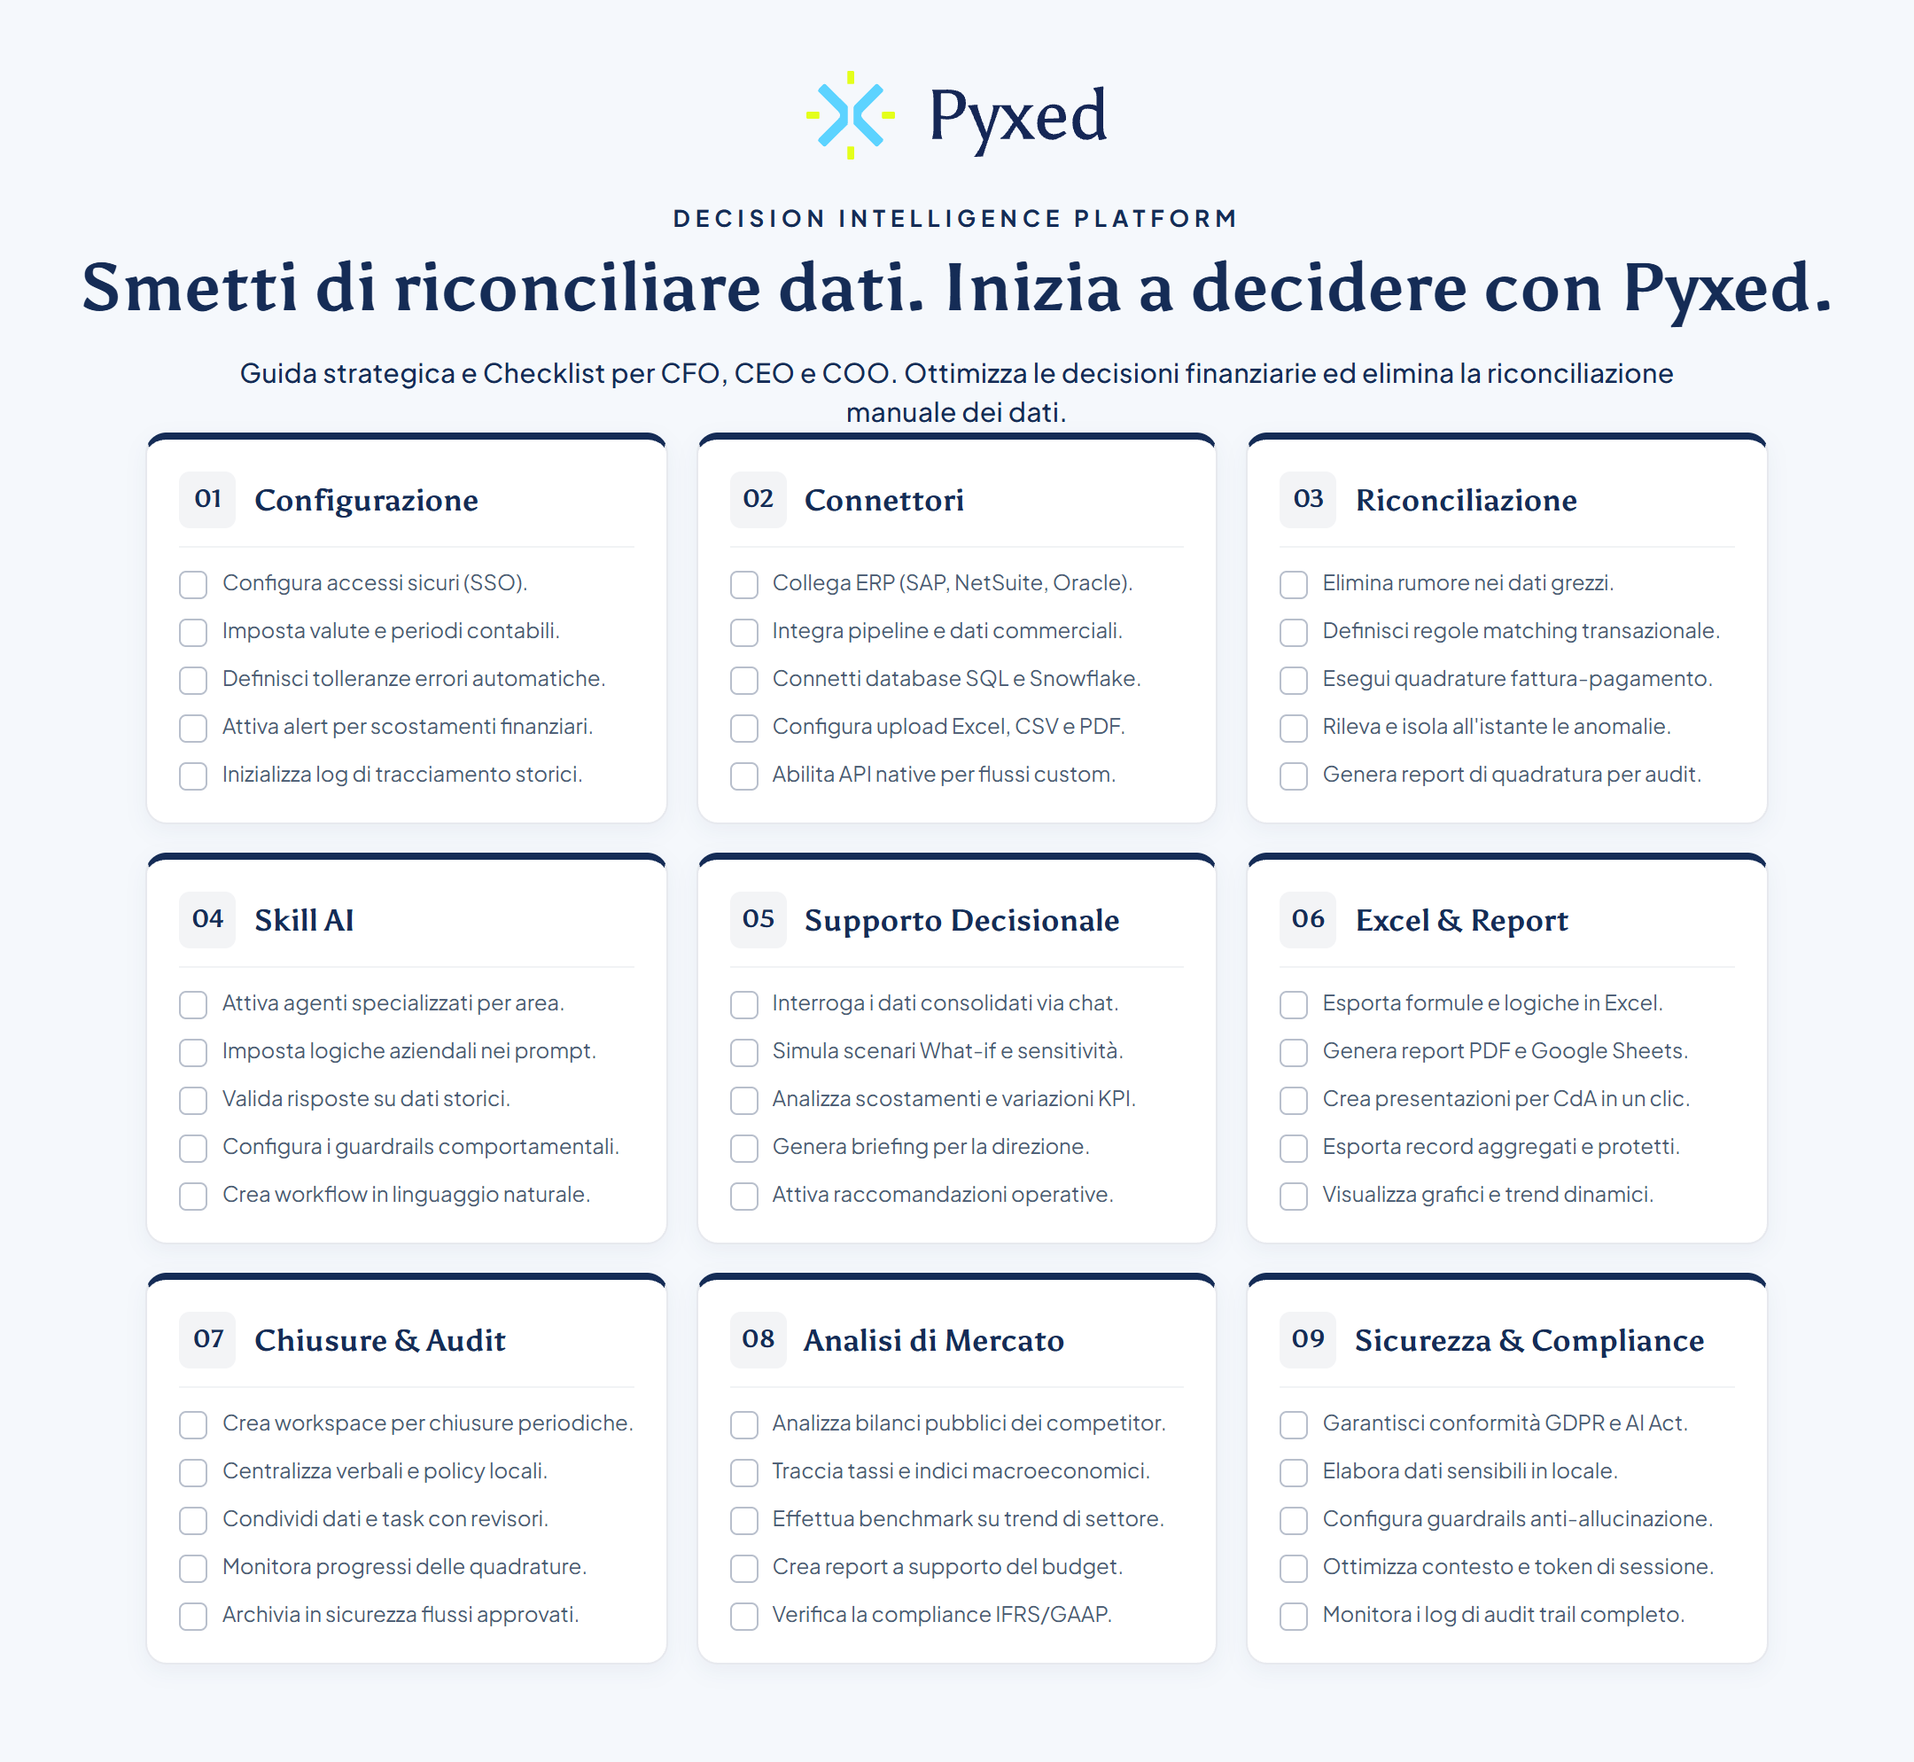
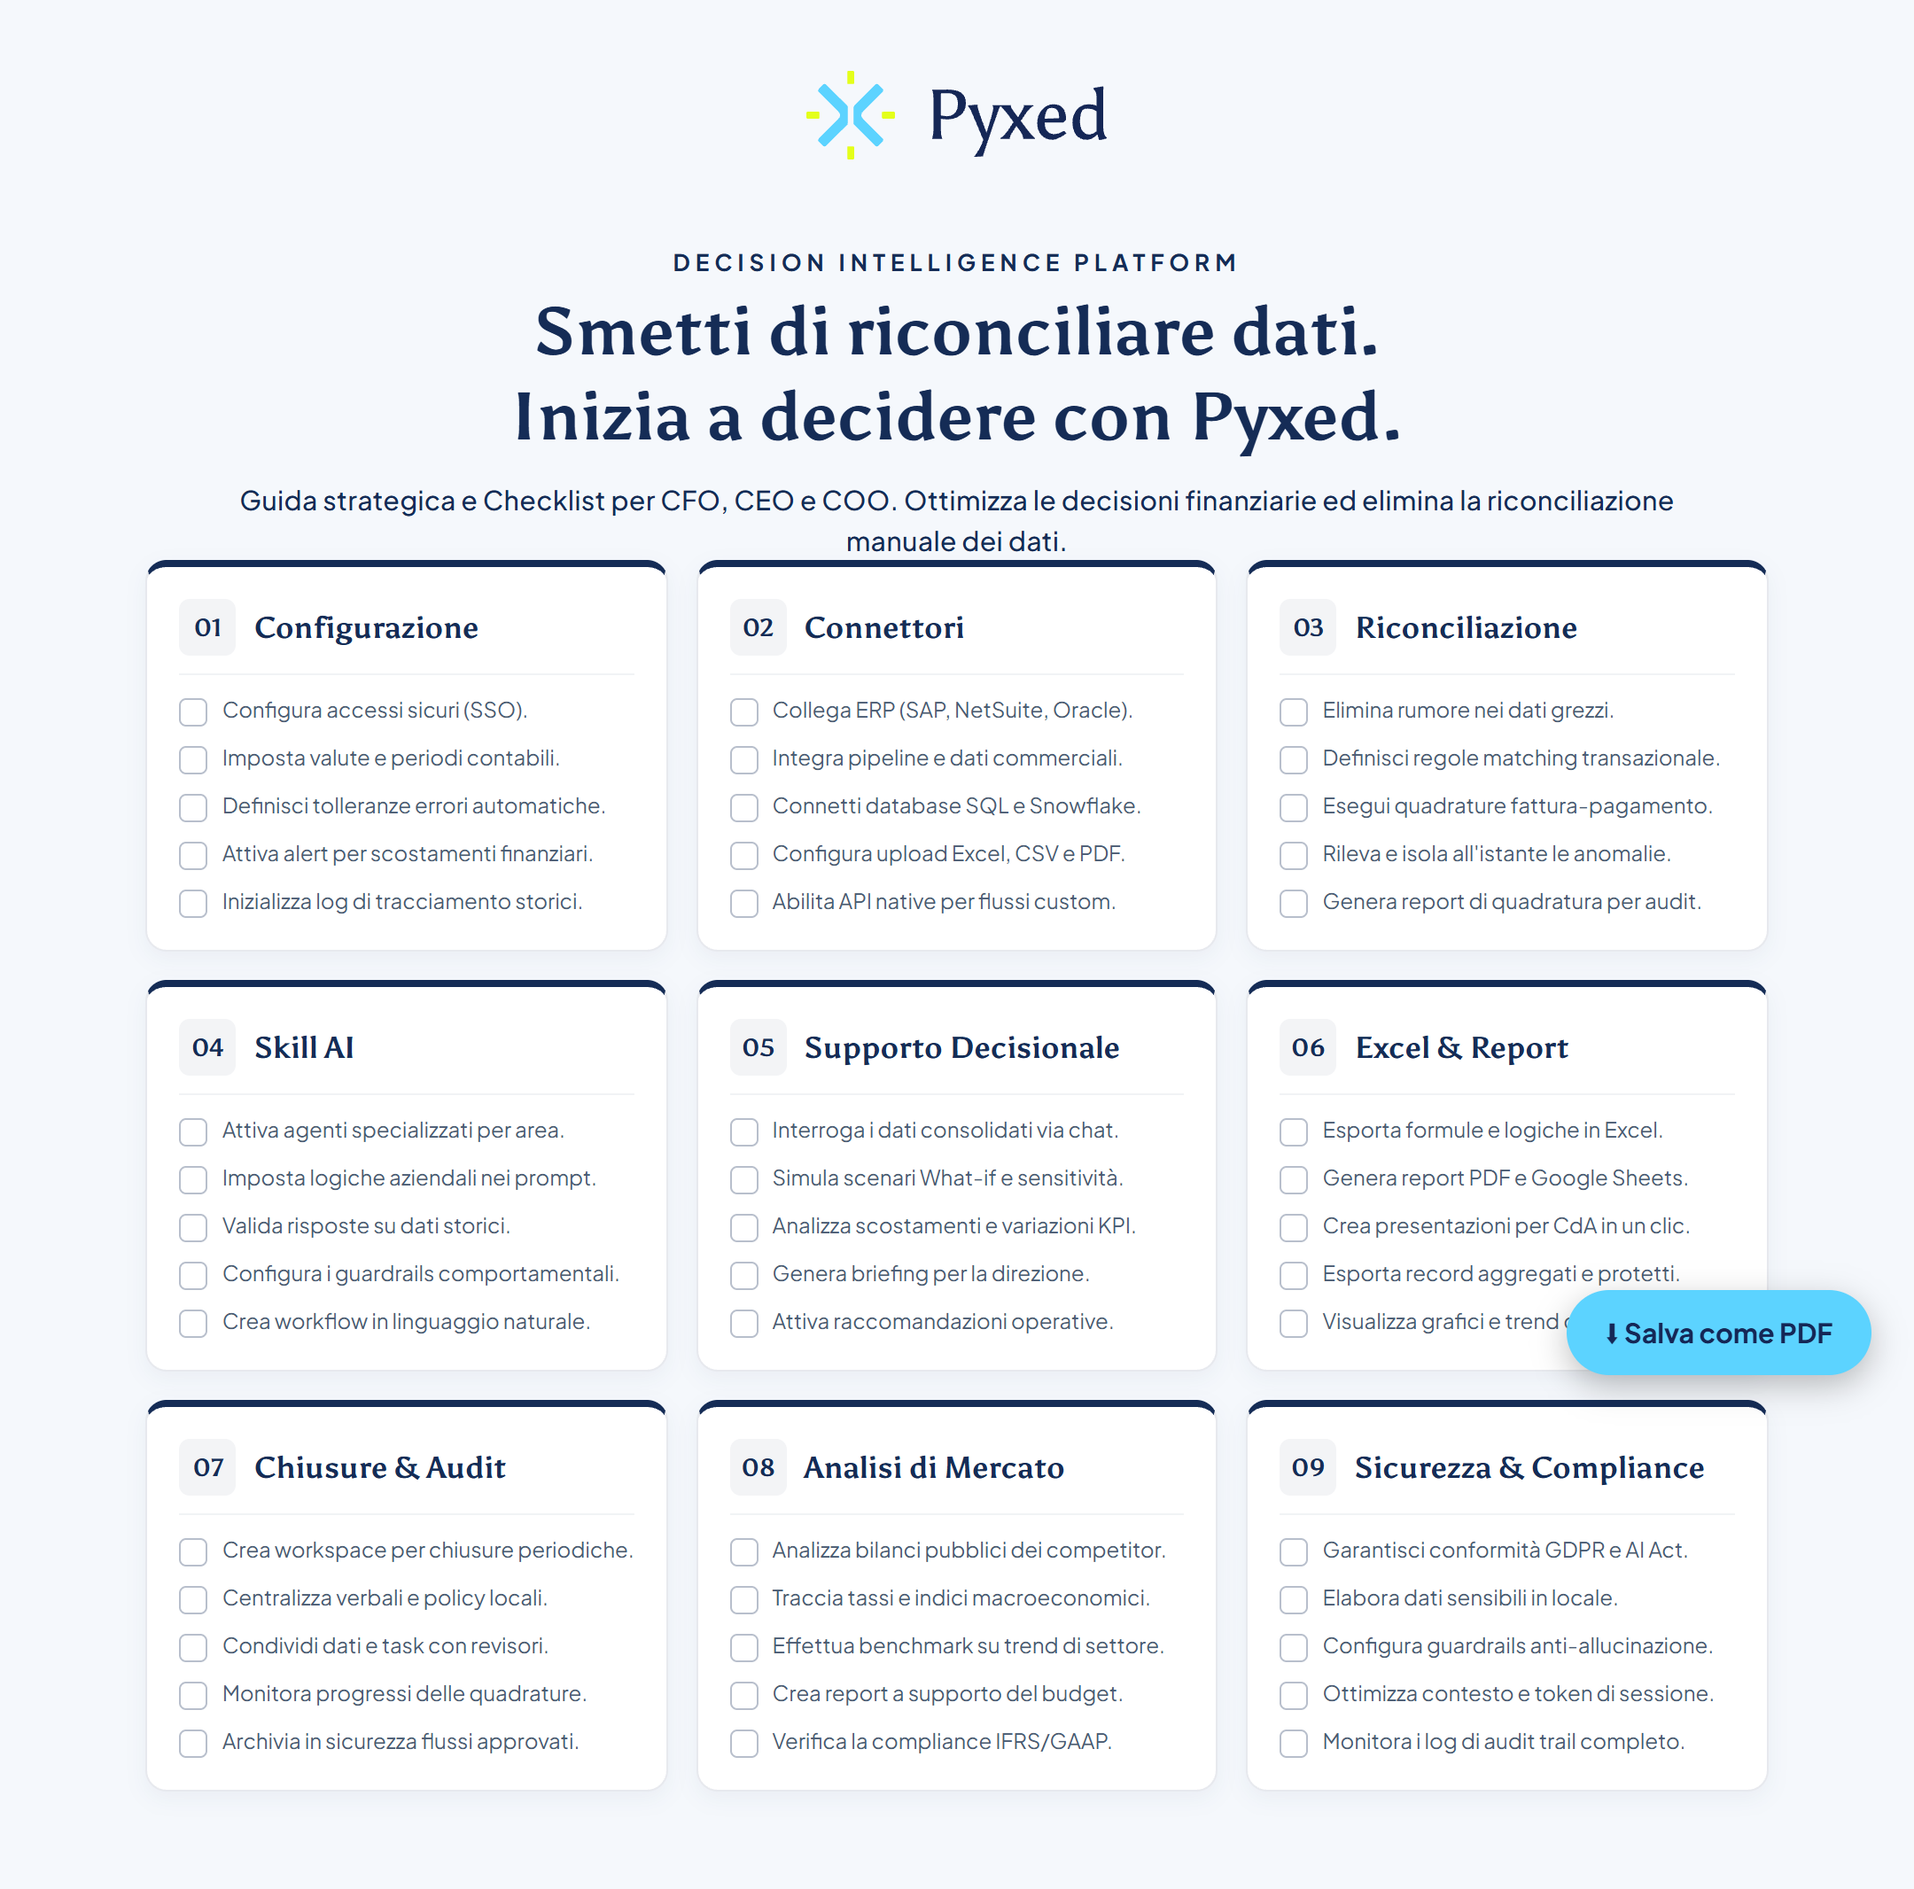
Fix h1 responsiveness and spacing on cheat sheet

Changed region(s): [[0.031, 0.1247, 0.9926, 0.9356], [0.4963, 0.0312, 0.5894, 0.0936], [0.4032, 0.0312, 0.4653, 0.0936]]

diff --git a/assets/pyxed_cheat_sheet.html b/assets/pyxed_cheat_sheet.html
@@ -50,7 +50,7 @@
     /* HEADER */
     header {
       text-align: center;
-      margin-bottom: 10px;
+      margin-bottom: 35px;
       position: relative;
     }
 
@@ -90,7 +90,10 @@
       font-size: 38px;
       font-weight: 700;
       line-height: 1.25;
-      margin-bottom: 12px;
+      margin: 0 auto 12px;
+      max-width: 800px;
+      text-align: center;
+      text-wrap: balance;
       color: var(--navy-accent);
     }
 
